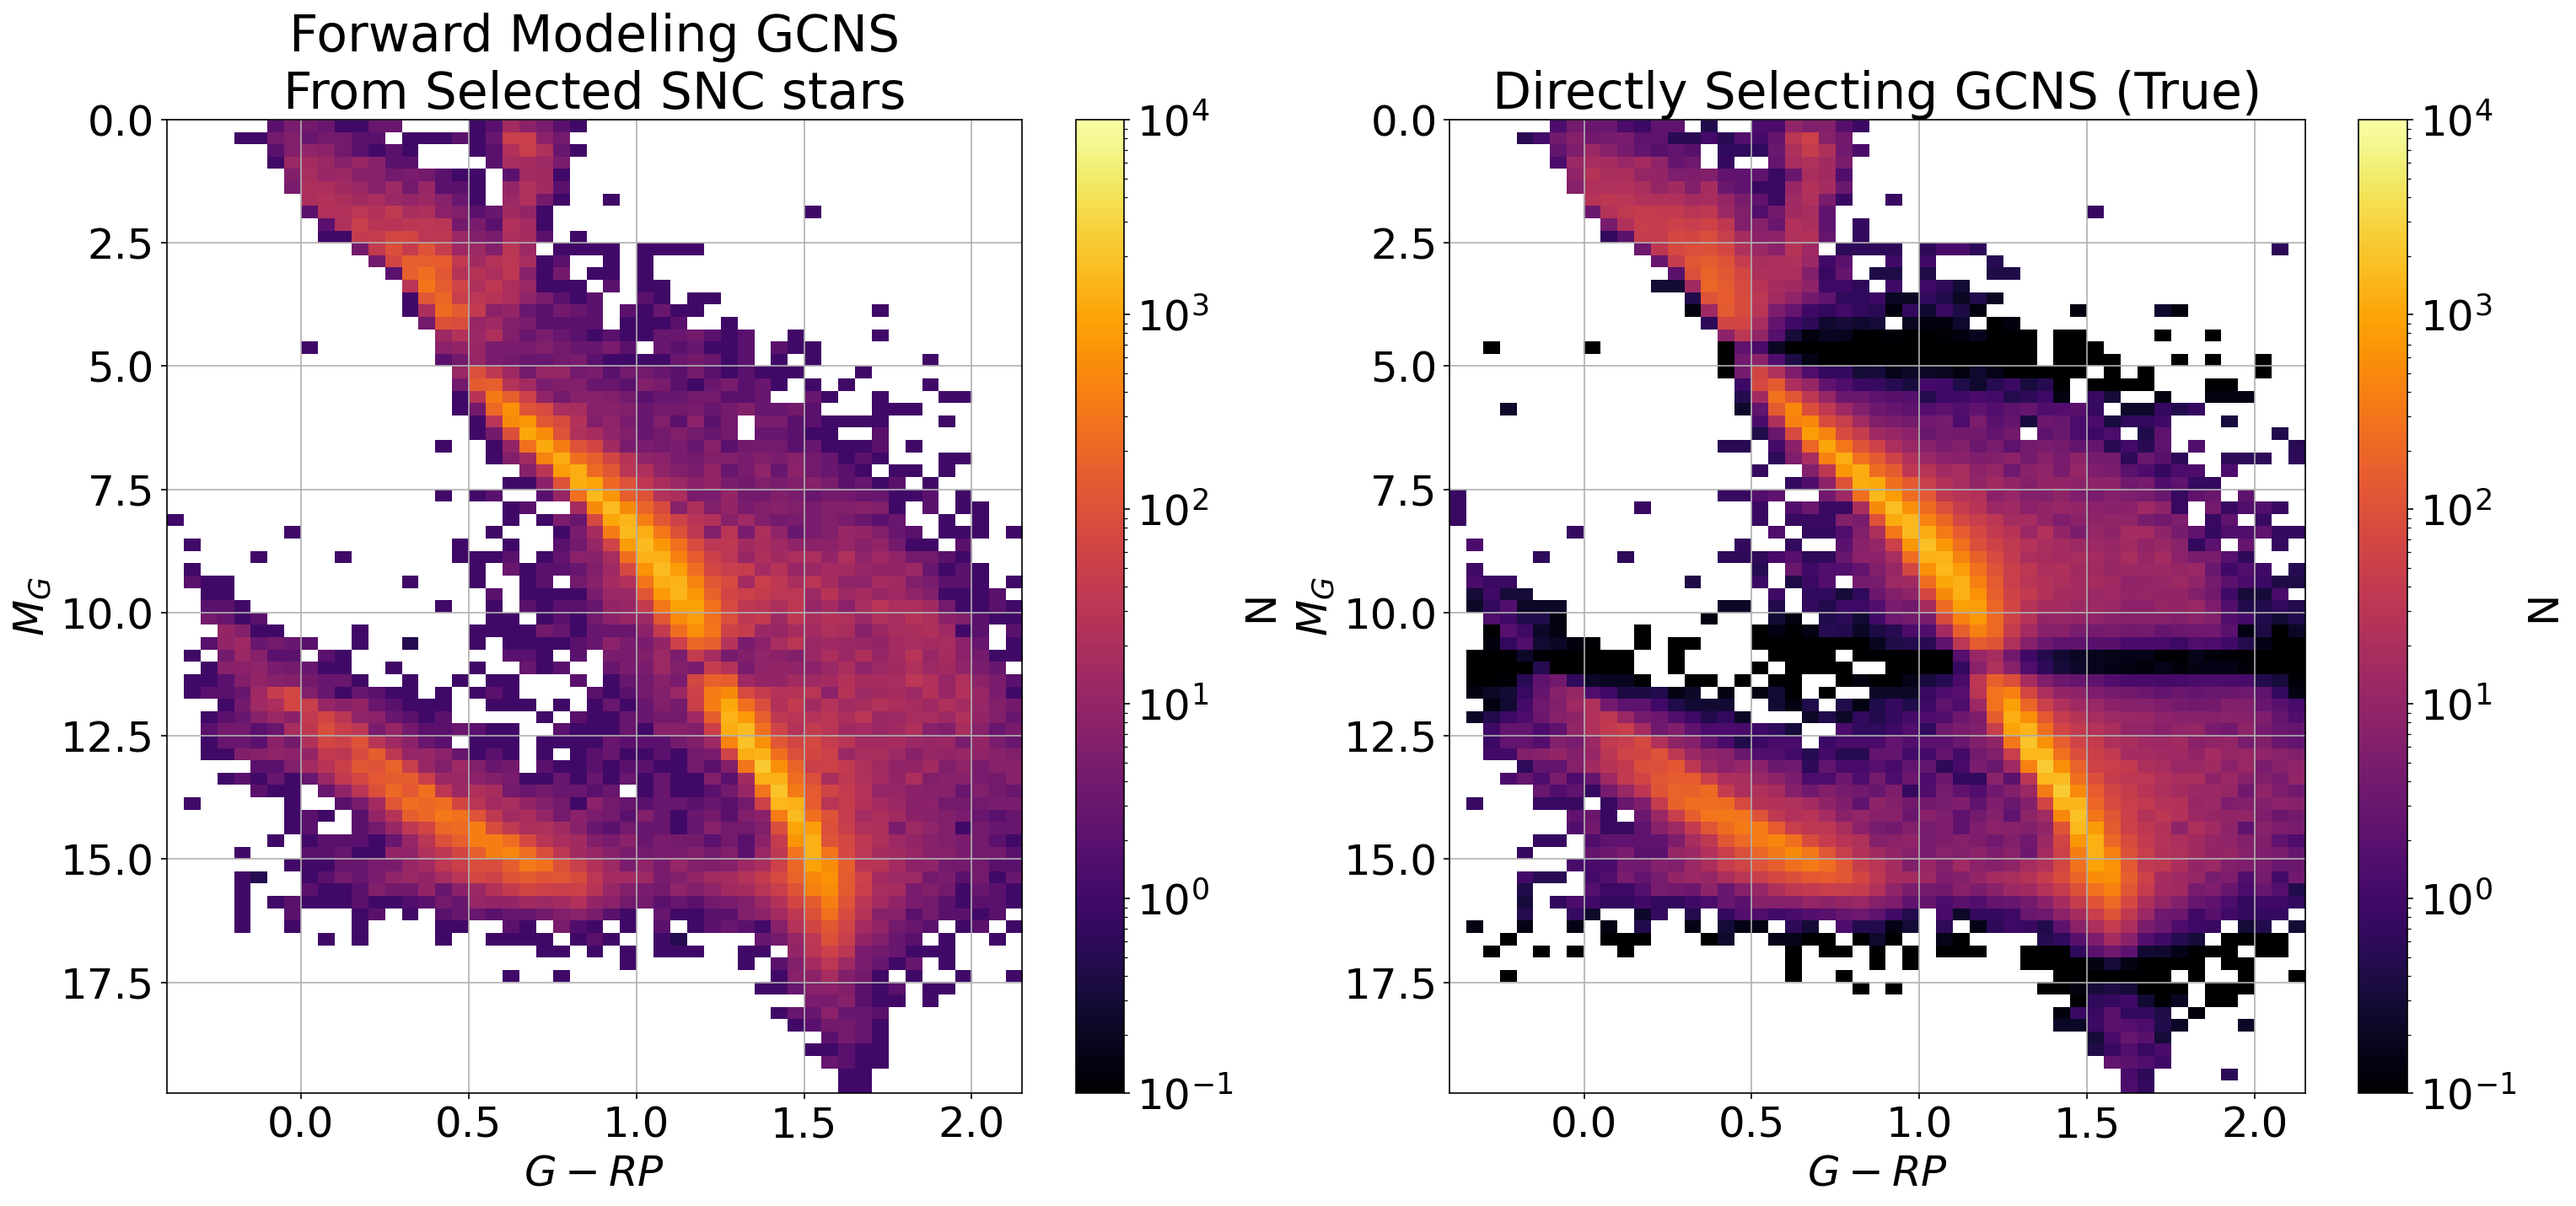
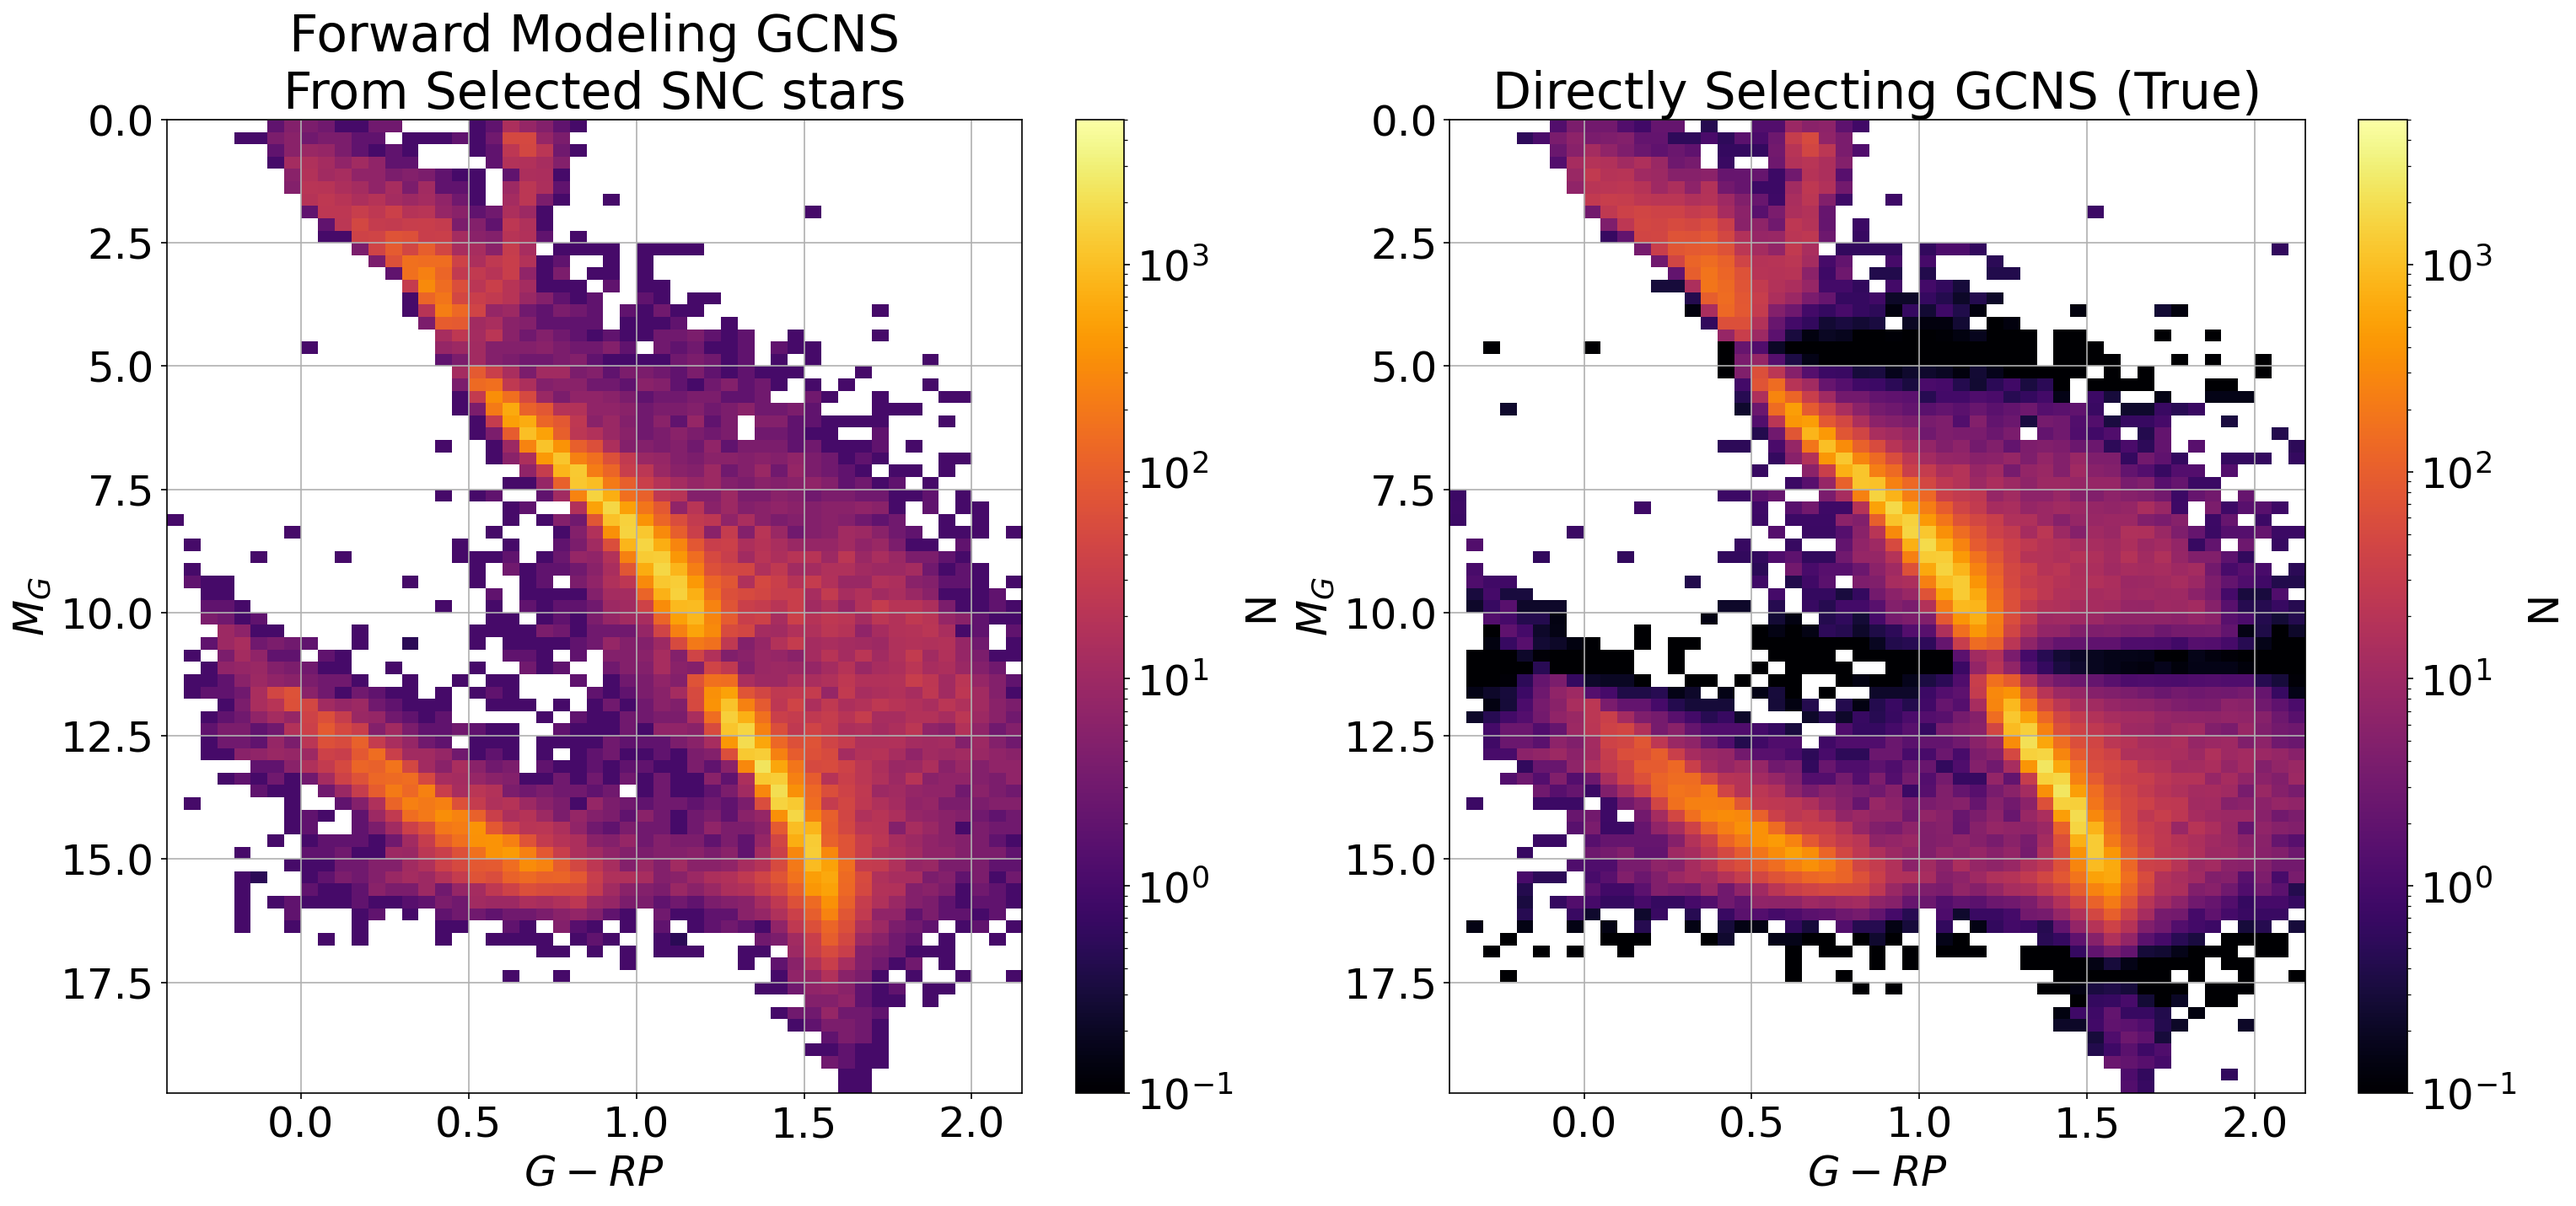
fix up plots for paper

diff --git a/notebooks/forward_model_GCNS_mock_proof.py b/notebooks/forward_model_GCNS_mock_proof.py
@@ -86,7 +86,7 @@ if __name__ == '__main__':
     ax1.grid()
 
     _, _, _, dens = ax2.hist2d(filter_data['g_rp'].to_numpy(), filter_data['MG'].to_numpy(),
-                            bins=[g_rp_bins, MG_bins], norm=LogNorm(), cmap='inferno')
+                            bins=[g_rp_bins, MG_bins], norm=LogNorm(vmin=1e-1, vmax=5e3), cmap='inferno')
     plt.colorbar(dens, ax=ax2, label='N')
     ax2.invert_yaxis()
     ax2.grid()
@@ -128,7 +128,7 @@ if __name__ == '__main__':
     f, (ax1, ax2) = plt.subplots(1, 2, figsize=(24, 10))
     dens = ax1.imshow(np.nanpercentile(Nboot, 50, axis=0).T, origin='lower', aspect='auto',
             extent=(g_rp_bins.min(), g_rp_bins.max(), MG_bins.min(), MG_bins.max()),
-                    norm=LogNorm(vmin=1e-1, vmax=1e4), cmap='inferno')
+                    norm=LogNorm(vmin=1e-1, vmax=5e3), cmap='inferno')
     plt.colorbar(dens, ax=ax1, label='N')
     ax1.invert_yaxis()
     ax1.grid()
@@ -138,7 +138,7 @@ if __name__ == '__main__':
 
     dens = ax2.imshow(Ntot.T * ptrue.T, origin='lower', aspect='auto',
             extent=(g_rp_bins.min(), g_rp_bins.max(), MG_bins.min(), MG_bins.max()), 
-                    norm=LogNorm(vmin=1e-1, vmax=1e4), cmap='inferno')
+                    norm=LogNorm(vmin=1e-1, vmax=5e3), cmap='inferno')
     plt.colorbar(dens, ax=ax2, label='N')
     ax2.invert_yaxis()
     ax2.grid()
